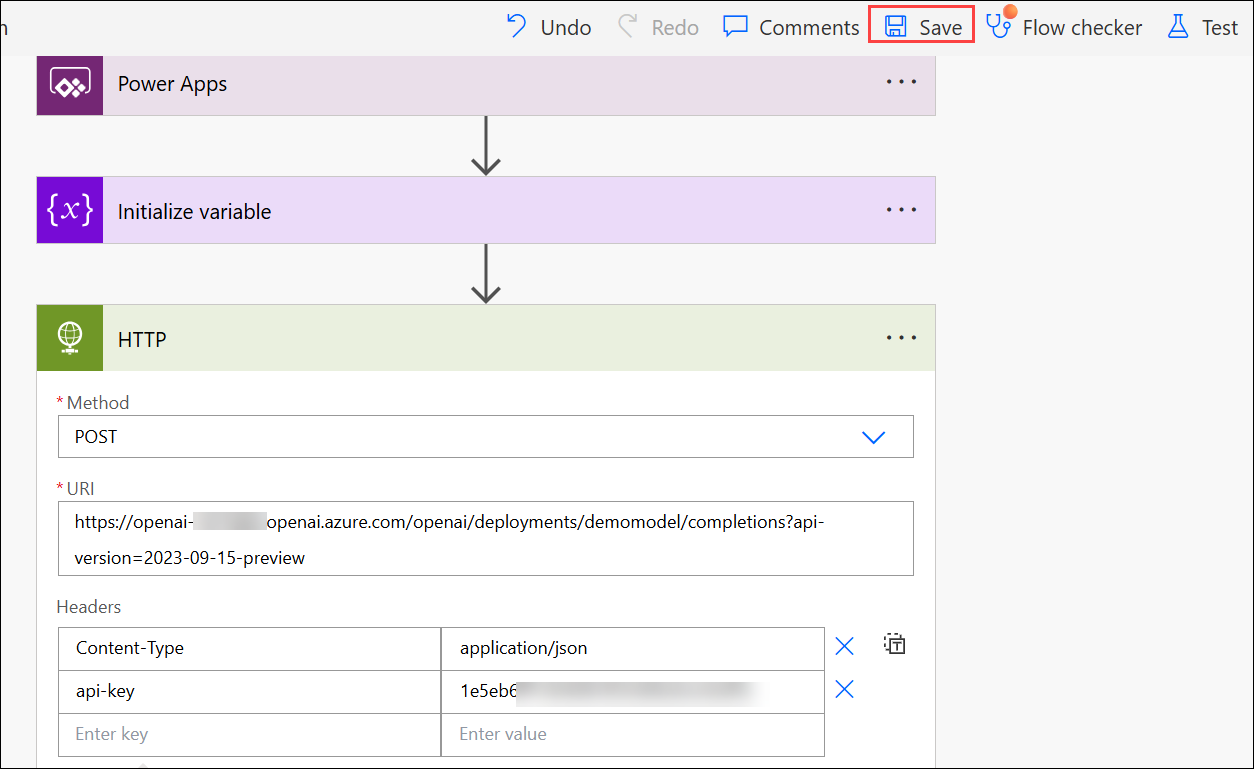
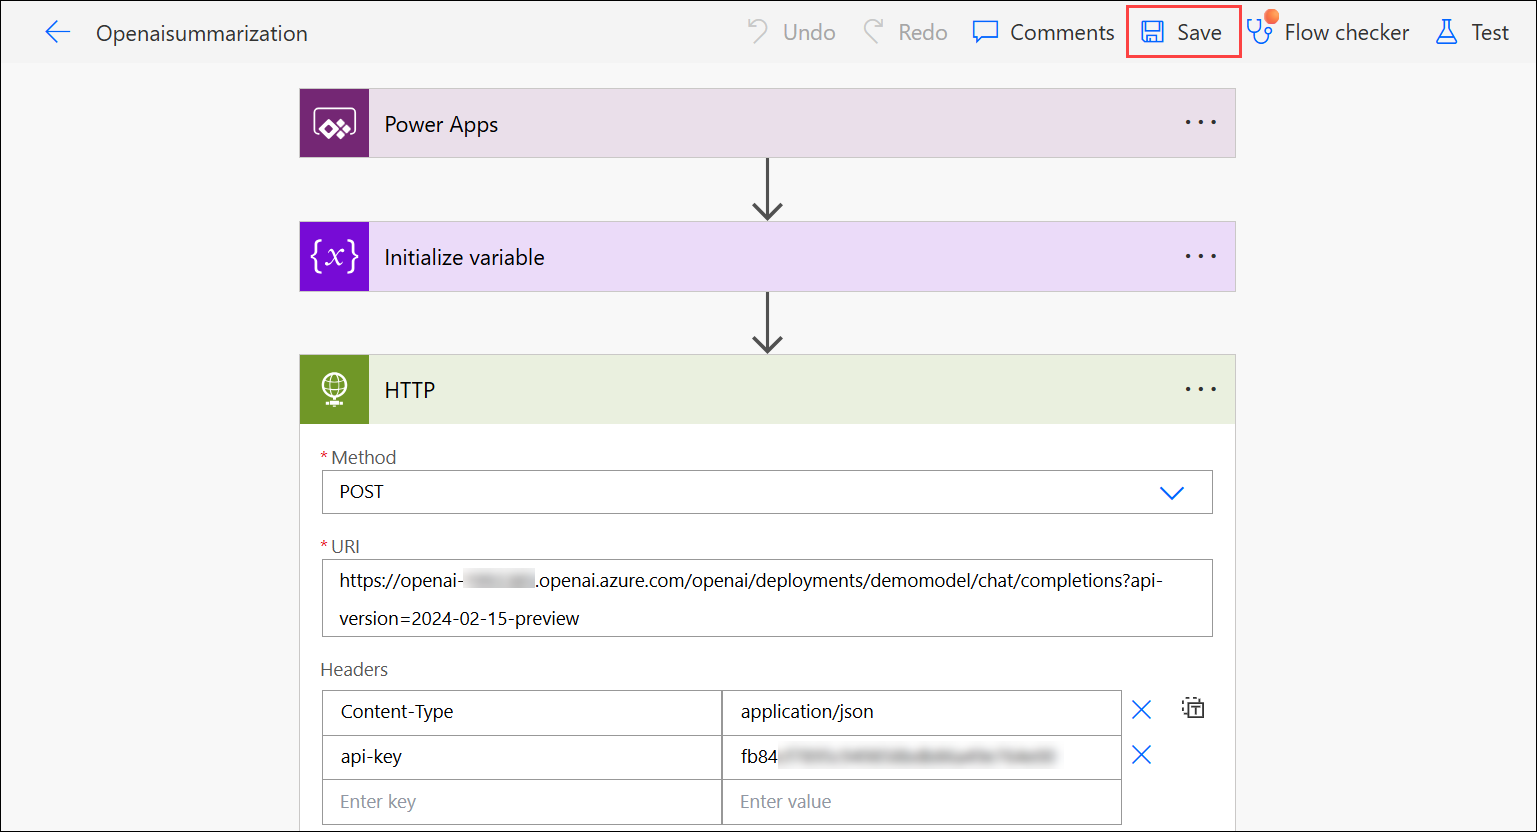
updated powerapp

diff --git a/scenarios/powerapp_and_python/powerapp.md b/scenarios/powerapp_and_python/powerapp.md
@@ -64,7 +64,7 @@ This Exercise focuses on creating an application using OpenAI capabilities integ
 
     - Replace `https://your-resource-name.openai.azure.com/` with **<inject key="OpenAIEndpoint" enableCopy="true"/> (1)**
     - Replace `deployment-id` with **<inject key="openaimodulename" enableCopy="true"/> (2)**
-    - Replace `api-version` with **2023-09-15-preview (3)**
+    - Replace `api-version` with **2024-02-15-preview (3)**
     - Replace `YOUR_API_KEY` with **<inject key="OpenAIKey" enableCopy="true"/> (4)**
       Then, click **Save**.
 
